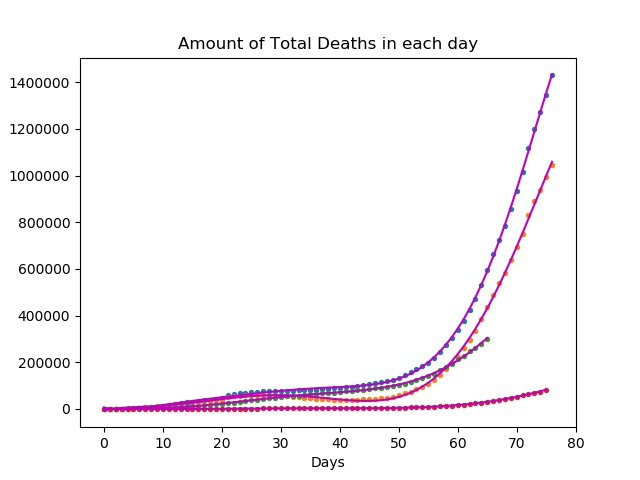
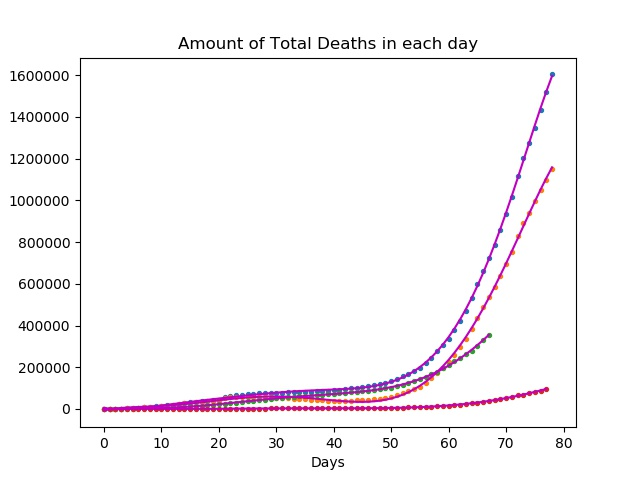
update

diff --git a/README.md b/README.md
@@ -12,17 +12,17 @@ COVID-19, the disease that can result from the coronavirus worldwide new pandemi
 
 
 
-Our predictions for 08/04/2020: 
+Our predictions for 10/04/2020: 
 
-The predictions for Total Cases today is: 1508842
+The predictions for Total Cases today is: 1663123
 
-The predictions for Total Active Cases today is: 1117933
+The predictions for Total Active Cases today is: 1205488
 
-The predictions for Total Cured Cases today is: 327318
+The predictions for Total Cured Cases today is: 381831
 
-The predictions for Total Deaths  today is: 89935
+The predictions for Total Deaths  today is: 103807
 
-The predictions for Total Critical Cases  today is: 52462
+The predictions for Total Critical Cases  today is: 52087
 
 
 
@@ -33,8 +33,9 @@ The predictions for Total Critical Cases  today is: 52462
 
 |    Date    | Predicted Total Cases | Real Total Cases | Predicted Total Recovered | Real Total Recovered | Predicted  Total Deaths | Real Total Deaths | Predicted Active Cases | Real Active Cases | Predicted  Critical Cases | Real Critical Cases |
 | :--------: | :-------------------: | :--------------: | :-----------------------: | :------------------: | :---------------------: | :---------------: | :--------------------: | :---------------: | :-----------------------: | :-----------------: |
-| 08/04/2020 |        1508842        |        ??        |          327318           |          ??          |          89935          |        ??         |        1117933         |        ??         |           52462           |         ??          |
-| 07/04/2020 |        1436957        |     1430981      |          306797           |        302017        |          83266          |       82036       |        1070156         |      1046928      |           51629           |        47891        |
+| 10/04/2020 |        1663123        |        ??        |          381831           |          ??          |         103807          |        ??         |        1205488         |        ??         |           52087           |         ??          |
+| 08/04/2020 |        1508842        |     1518126      |          327318           |        356437        |          89935          |       88460       |        1117933         |      1151564      |           52462           |        48079        |
+| 07/04/2020 |        1436957        |     1433741      |          306797           |        302017        |          83266          |       82036       |        1070156         |      1046928      |           51629           |        47891        |
 | 06/04/2020 |        1391952        |     1346036      |          291636           |        278534        |          78417          |       74654       |        1018577         |      992848?      |           49610           |        47459        |
 | 05/04/2020 |        1309861        |     1272901      |          272048           |        264604        |          72118          |       69427       |         962878         |      938870       |           47064           |        45589        |
 | 04/04/2020 |        1215813        |     1201483      |          252278           |        246467        |          65527          |       64691       |         895783         |      890325       |           44888           |        42288        |
